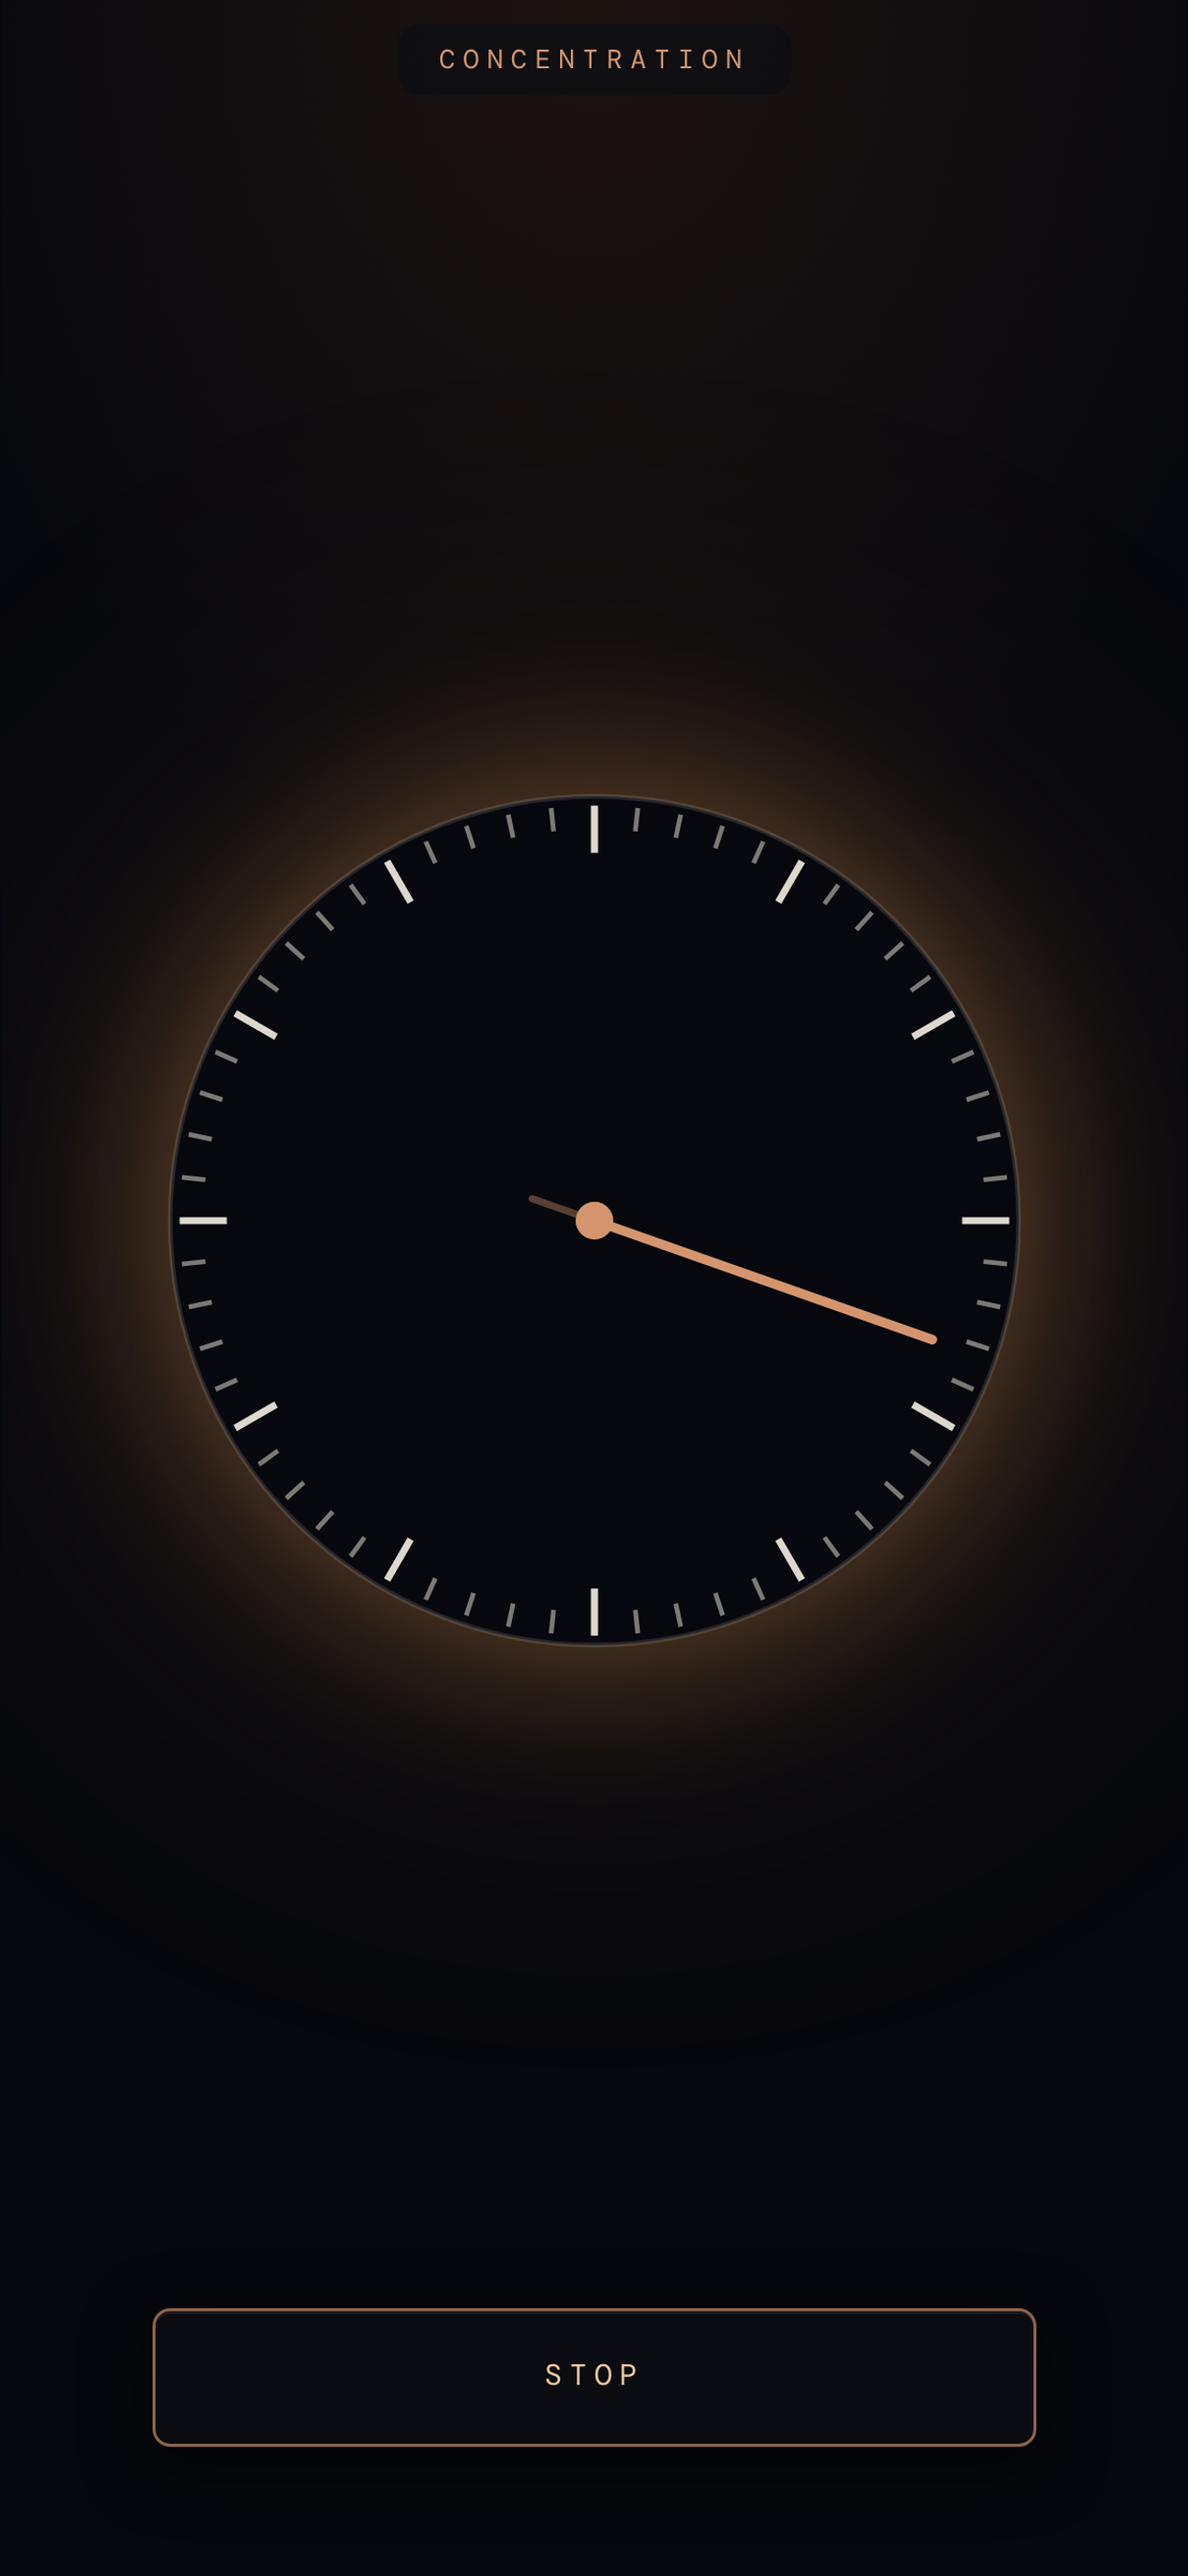
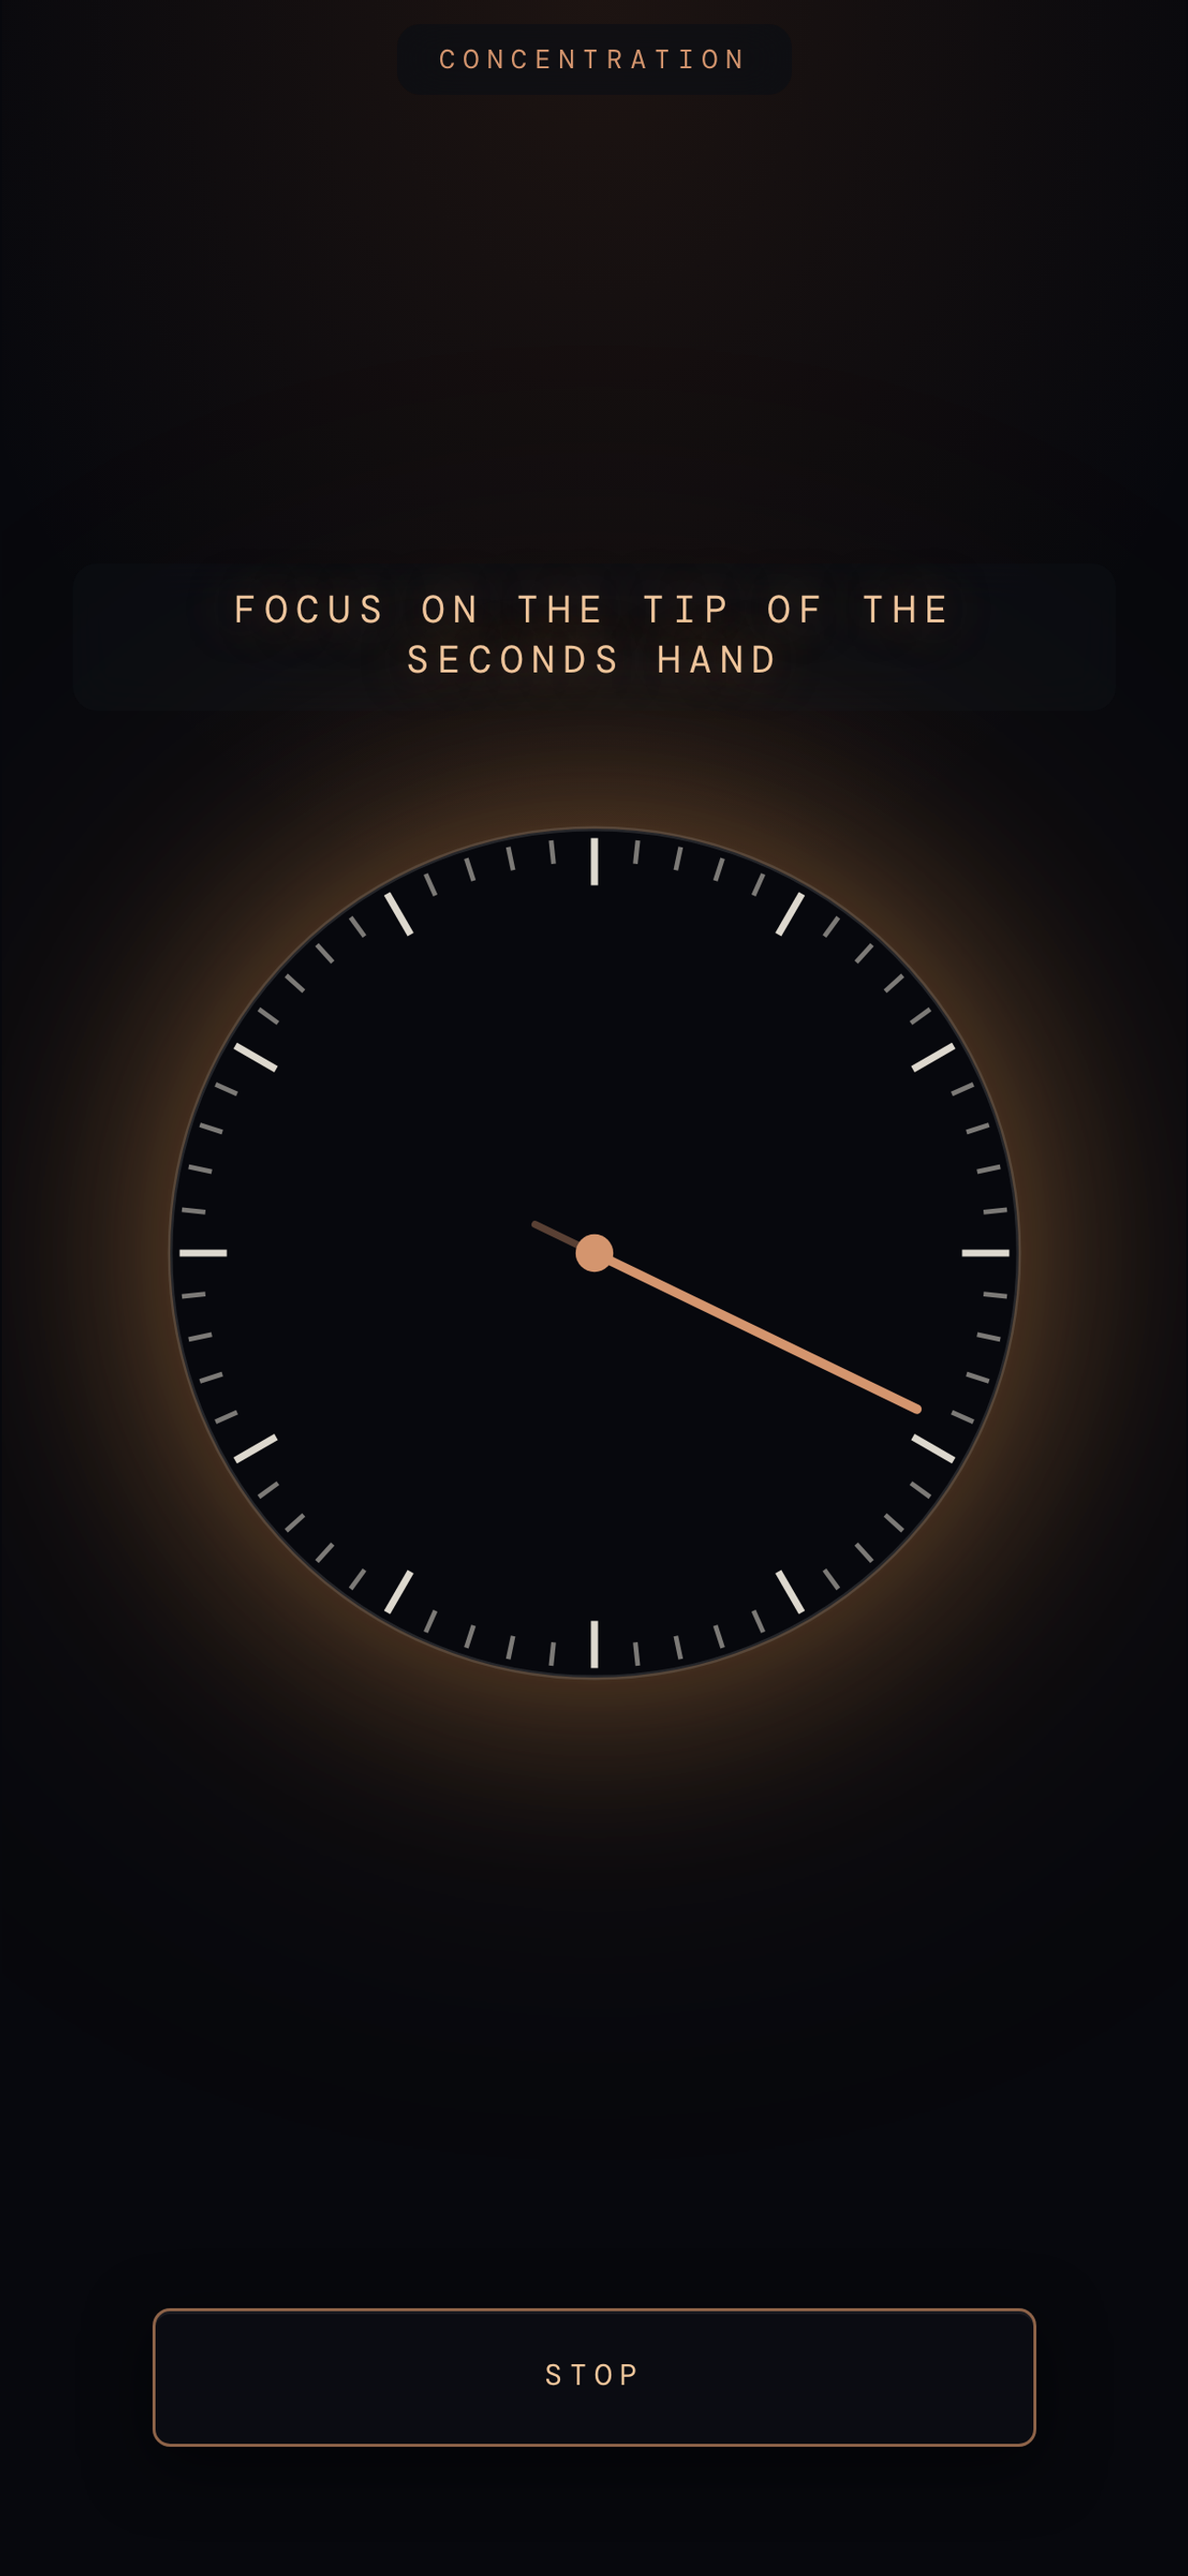
Cards 08-09 round 2: instruction chip on Clock; radiant Candle object
08: re-show 'focus on the tip of the seconds hand' mid-session, glowing
amber and easier to read, above the haloed clock face. 09: object changed
from pentagram to the drawn Candle (svg_candle) - brighter (scaled,
brightness/saturation lift, warm double glow), warm wash behind, label and
instructions brightened. Marketing-only staging; no app changes.

diff --git a/marketing/shoot-store-cards.js b/marketing/shoot-store-cards.js
@@ -39,15 +39,18 @@ const SCRATCH = '/tmp/claude-0/-home-user-Consciousness-App/b82bdf13-111b-5148-8
   await clean();
   await page.evaluate(() => {
     var st = document.createElement('style');
-    st.textContent = '.clock-face { filter:drop-shadow(0 0 30px rgba(224,150,80,.4)) drop-shadow(0 0 70px rgba(224,140,70,.18)); }';
+    st.textContent = '.clock-face { filter:drop-shadow(0 0 34px rgba(224,150,80,.45)) drop-shadow(0 0 80px rgba(224,140,70,.2)); }'
+      + ' #concSessionLabel { display:block !important; opacity:1 !important; color:#f0c8a0 !important; font-size:13px !important; letter-spacing:.22em; text-shadow:0 0 16px rgba(224,150,80,.5); }';
     document.head.appendChild(st);
+    var lbl = document.getElementById('concSessionLabel');
+    if (lbl) { lbl.textContent = 'focus on the tip of the seconds hand'; lbl.style.display = 'block'; }
   });
   await page.waitForTimeout(300);
   await page.screenshot({ path: SCRATCH + '/store-clock-raw.png' });
 
   // ── VISUALIZATION: force the Violet Pentagram, study phase ──
   await page.evaluate(() => {
-    window.pickVisObject = function() { return { shape:'pentagram', color:'#a855d4', label:'Violet Pentagram' }; };
+    window.pickVisObject = function() { return { shape:'svg_candle', label:'Candle' }; };
     openExerciseSetup('visual');
   });
   await page.waitForTimeout(800);
@@ -59,9 +62,11 @@ const SCRATCH = '/tmp/claude-0/-home-user-Consciousness-App/b82bdf13-111b-5148-8
   await clean();
   await page.evaluate(() => {
     var st = document.createElement('style');
-    st.textContent = '#visStudyObject svg { filter:drop-shadow(0 0 34px rgba(168,85,212,.55)) drop-shadow(0 0 80px rgba(168,85,212,.25)); }'
-      + ' #visStudyScreen { background:radial-gradient(ellipse 92% 52% at 50% 32%, rgba(168,85,212,.11), transparent 70%), #07080d !important; }'
-      + ' #visStudyLabel { color:#c8a8e0 !important; text-shadow:0 0 18px rgba(168,85,212,.4); }';
+    st.textContent = '#visStudyObject svg { filter:brightness(1.22) saturate(1.15) drop-shadow(0 0 30px rgba(255,190,90,.65)) drop-shadow(0 0 90px rgba(255,160,60,.3)); transform:scale(1.15); }'
+      + ' #visStudyScreen { background:radial-gradient(ellipse 95% 55% at 50% 32%, rgba(255,170,70,.12), transparent 70%), #07080d !important; }'
+      + ' #visStudyLabel { color:#f4dcae !important; font-size:24px !important; text-shadow:0 0 20px rgba(255,190,100,.5); }'
+      + ' #visStudyLabel + div { color:rgba(232,222,206,.85) !important; font-size:12px !important; }'
+      + ' .session-title { color:#f0b880 !important; }';
     document.head.appendChild(st);
   });
   await page.waitForTimeout(300);
